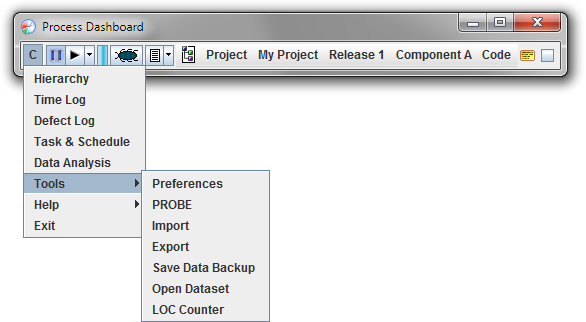
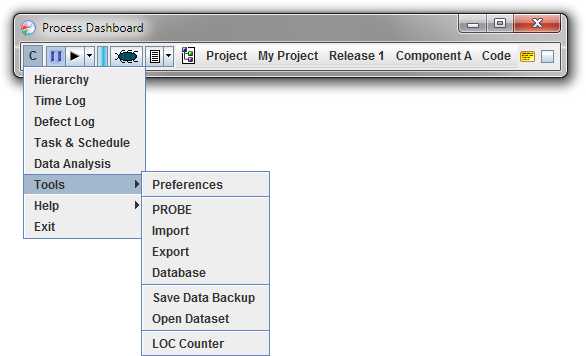
Help updates for Process Dashboard 2.0
git-svn-id: https://svn.code.sf.net/p/processdash/code/trunk@4363 560cad82-bde2-470f-af40-e4e1f8d6548a

Changed region(s): [[0.0, 0.0311, 0.9829, 0.9938]]

diff --git a/processdash/Templates/help/Topics/Overview/ChangeLog.html b/processdash/Templates/help/Topics/Overview/ChangeLog.html
@@ -7,6 +7,61 @@
 
 <H1>Change History</H1>
 
+
+<h2>Features new in version 2.0</h2>
+
+<ul>
+
+<li>The Process Dashboard now includes a powerful new 
+<a href="../AdvancedTopics/Database.html">Data Warehouse</a> component.  This
+component stores team project data in a relational database, making it
+possible for external analysis and reporting tools to access project data via
+SQL queries.</li>
+
+<li>The various reports, charts, and calculations in the Team Dashboard have
+been rewritten to take advantage of the Data Warehouse component.  As a
+result, Team Dashboard reports are displayed 100 to 1000 times faster than
+before.  Team Dashboard memory usage has also decreased significantly.
+Together, these improvements introduce a dramatic change in the scalability of
+the Team Dashboard for large and long-running project teams.</li>
+
+<li>For over a decade, the Team Dashboard has reused the same graphical user
+interface as the "personal" Dashboard.  With this release, the Team Dashboard
+now displays a redesigned user interface that focuses on the needs of coaches,
+team leaders, team role managers, and other users of consolidated team data.
+The new interface provides quick access to team tools and reports, improving
+productivity of existing teams, and reducing the learning curve for teams that
+are new to the Process Dashboard.</li>
+
+<li>Historically, some teams have observed extremely long startup times for
+the Team Dashboard - especially when opening the data over a VPN, WAN, or
+other slow network.  This version introduces a change to the storage strategy
+for team projects, enabling significantly faster startup times for the Team
+Dashboard.</li>
+
+<li>When the Team Dashboard and Process Dashboard shut down, a task runs to
+export data for various team projects.  Historically, as more team projects
+are added to a particular dashboard, this export step takes longer and longer.
+In this version, the export task has been streamlined significantly, allowing
+the dashboard to shut down much faster.</li>
+
+<li>Significant improvements have been made to the efficiency of the earned
+value calculation logic, enabling earned value reports to display much faster
+than before.</li>
+
+<li>The Defect Log Editor now includes an option to import defects from the
+Review Board code review tool.</li>
+
+<li>A new REST API has been provided that makes it possible for external tools
+(running on the same computer as the personal Process Dashboard) to add
+entries to the Size Inventory Form for a Team Project.</li>
+
+<li>The splash screen appears more quickly after clicking an icon to launch
+the Process Dashboard.</li>
+
+</ul>
+
+
 <h2>Features new in version 1.15</h2>
 
 <ul>

diff --git a/processdash/Templates/help/Topics/Overview/Licenses.html b/processdash/Templates/help/Topics/Overview/Licenses.html
@@ -30,8 +30,14 @@ software contributions from the following individuals:<ul>
 
 <p>This program also contains:<ul>
 
-<li>Java software libraries, &copy;&nbsp;1995-2009
+<li>Java software libraries, &copy;&nbsp;1995-2012
     <a href="apache.html">Apache Software Foundation</a></li>
+
+<li>Spring Framework libraries, &copy;&nbsp;2001-2012
+    <a href="apache.html">SpringSource</a>, a division of VMware, Inc.</li>
+
+<li>Hibernate ORM libraries, &copy;&nbsp;2001-2012
+    <a href="lgpl.html">Hibernate development team</a></li>
 
 <li>JFreeChart charting software &copy;&nbsp;2000-2003 
     <a href="lgpl.html">David Gilbert, Simba Management Limited</a></li>
@@ -72,6 +78,19 @@ software contributions from the following individuals:<ul>
 
 <!-- MD5 digest calculator -->
 &copy;&nbsp;1996&nbsp;<a href="lgpl.html">Santeri&nbsp;Paavolainen</a>;
+
+<!-- Ehcache -->
+&copy;&nbsp;2003-2006&nbsp;<a href="apache.html">Greg&nbsp;Luck</a>;
+
+<!-- DOM4J -->
+&copy;&nbsp;2001-2005&nbsp;<a href="License-DOM4J.html">MetaStuff,&nbsp;Ltd.</a>;
+
+<!-- ASM -->
+&copy;&nbsp;2012&nbsp;<a href="bsd.html">France&nbsp;T&eacute;l&eacute;com</a>;
+
+<!-- ANTLR -->
+&copy;&nbsp;2012&nbsp;<a href="bsd.html">Terence&nbsp;Parr and
+Sam&nbsp;Harwell</a>;
 
 <!-- Base64 encoder (public domain) -->
 &copy;&nbsp;2004&nbsp;Robert&nbsp;Harder.
@@ -123,6 +142,14 @@ software contributions from the following individuals:<ul>
 reporting capabilities and relational database support.  These modules are
 &copy;&nbsp;2008-2013 <a href="License-Extras.html">Tuma Solutions,
 LLC</a>.</p>
+
+<p>This software contains unmodified binary redistributions for H2 database
+engine (http://www.h2database.com/), which is dual licensed and available
+under a modified version of the MPL 1.1 (Mozilla Public License) or under the
+(unmodified) EPL 1.0 (Eclipse Public License).  An original copy of the
+license agreement can be found at:
+http://www.h2database.com/html/license.html</p>
+
 
 <h2>SEI/CMU Materials</h2>
 

diff --git a/processdash/Templates/help/Topics/Overview/License-DOM4J.html b/processdash/Templates/help/Topics/Overview/License-DOM4J.html
@@ -1,0 +1,44 @@
+<html>
+<body>
+
+<h1>DOM4J License</h1>
+
+<p>Redistribution and use of this software and associated documentation
+("Software"), with or without modification, are permitted provided that the
+following conditions are met:</p>
+
+<ul>
+
+<li>Redistributions of source code must retain copyright statements and
+notices.  Redistributions must also contain a copy of this document.</li>
+
+<li>Redistributions in binary form must reproduce the above copyright notice,
+this list of conditions and the following disclaimer in the documentation
+and/or other materials provided with the distribution.</li>
+
+<li>The name "DOM4J" must not be used to endorse or promote products derived
+from this Software without prior written permission of MetaStuff, Ltd.  For
+written permission, please contact dom4j-info@metastuff.com.</li>
+
+<li>Products derived from this Software may not be called "DOM4J" nor may
+"DOM4J" appear in their names without prior written permission of MetaStuff,
+Ltd. DOM4J is a registered trademark of MetaStuff, Ltd.</li>
+
+<li>Due credit should be given to the DOM4J Project -
+http://www.dom4j.org</li>
+
+</ul>
+
+<p>THIS SOFTWARE IS PROVIDED BY METASTUFF, LTD. AND CONTRIBUTORS ``AS IS'' AND
+ANY EXPRESSED OR IMPLIED WARRANTIES, INCLUDING, BUT NOT LIMITED TO, THE
+IMPLIED WARRANTIES OF MERCHANTABILITY AND FITNESS FOR A PARTICULAR PURPOSE ARE
+DISCLAIMED.  IN NO EVENT SHALL METASTUFF, LTD. OR ITS CONTRIBUTORS BE LIABLE
+FOR ANY DIRECT, INDIRECT, INCIDENTAL, SPECIAL, EXEMPLARY, OR CONSEQUENTIAL
+DAMAGES (INCLUDING, BUT NOT LIMITED TO, PROCUREMENT OF SUBSTITUTE GOODS OR
+SERVICES; LOSS OF USE, DATA, OR PROFITS; OR BUSINESS INTERRUPTION) HOWEVER
+CAUSED AND ON ANY THEORY OF LIABILITY, WHETHER IN CONTRACT, STRICT LIABILITY,
+OR TORT (INCLUDING NEGLIGENCE OR OTHERWISE) ARISING IN ANY WAY OUT OF THE USE
+OF THIS SOFTWARE, EVEN IF ADVISED OF THE POSSIBILITY OF SUCH DAMAGE.</p>
+
+</body>
+</html>

diff --git a/processdash/Templates/help/Topics/Troubleshooting/FAQ.html b/processdash/Templates/help/Topics/Troubleshooting/FAQ.html
@@ -18,6 +18,9 @@
  <LI><a href="#ChooseJVM">I have several versions of the Java Runtime Environment on my computer. How
   can I tell the dashboard which one to use?</a></li>
 
+ <LI><a href="#hybridMode">Our Team Dashboard is displaying the "toolbar" user
+ interface designed for personal data collection. How can I fix this?</a></li>
+
 </ul>
 
 <h2>Online forms</h2>
@@ -118,6 +121,22 @@ Environment on my computer. How can I tell the dashboard which one to use?</b>
     if it is slightly different on your computer.)
      </li>
 </ol>
+
+<P><hr><A NAME="hybridMode"></A><b>Our Team Dashboard is displaying the
+ "toolbar" user interface designed for personal data collection. How can I fix
+ this?</b>
+
+<p>In most cases, when you create a team dashboard or personal dashboard, it
+will automatically be configured with a flag indicating the dataset type.
+However, if you have an older Team Dashboard that contains a mixture of team
+projects and accidentally created personal projects, the dashboard may not be
+able to infer the correct dataset type, and it may display the "toolbar" user
+interface that is designed to help individuals collect data.  If this occurs,
+you can fix the problem by choosing &quot;C 
+<img src="../../Images/rarrow.png"> Tools <img src="../../Images/rarrow.png">
+Preferences <img src="../../Images/rarrow.png"> Advanced&quot; and setting the
+"datasetMode" parameter to "team".</p>
+
 
 <P><hr><A NAME="TwoForms"></A><b>If I have a dashboard script or form open,
 and I click the script button to open another form, the new form appears in

diff --git a/processdash/Templates/help/TOC.html b/processdash/Templates/help/TOC.html
@@ -97,6 +97,9 @@ A  { color: black; text-decoration: none }
 <td nowrap="true"><img align="absmiddle" src="Images/spacer.gif" height="1" width="40"><img align="absmiddle" src="Images/page.gif" width="17" height="20"><img align="absmiddle" src="Images/spacer.gif" width="4" height="1"><a href="Topics/Overview/License-SunBerkeley.html">Sun Microsystems</a></td>
 </tr>
 <tr>
+<td nowrap="true"><img align="absmiddle" src="Images/spacer.gif" height="1" width="40"><img align="absmiddle" src="Images/page.gif" width="17" height="20"><img align="absmiddle" src="Images/spacer.gif" width="4" height="1"><a href="Topics/Overview/License-DOM4J.html">DOM4J License</a></td>
+</tr>
+<tr>
 <td nowrap="true"><img align="absmiddle" src="Images/spacer.gif" height="1" width="40"><img align="absmiddle" src="Images/page.gif" width="17" height="20"><img align="absmiddle" src="Images/spacer.gif" width="4" height="1"><a href="Topics/Overview/License-Colt.html">Colt License</a></td>
 </tr>
 <tr>
@@ -279,6 +282,7 @@ A  { color: black; text-decoration: none }
     [ "Apache", "Topics/Overview/apache.html" ],
     [ "MIT", "Topics/Overview/License-MIT.html" ],
     [ "BSD", "Topics/Overview/bsd.html" ],
+    [ "DOM4J", "Topics/Overview/License-DOM4J.html" ],
     [ "SunBerkeley", "Topics/Overview/License-SunBerkeley.html" ],
     [ "Colt", "Topics/Overview/License-Colt.html" ],
     [ "Overlib", "Topics/Overview/License-Overlib.html" ],

diff --git a/processdash/Templates/help/Topics/Execution/ConfigureMenu.html b/processdash/Templates/help/Topics/Execution/ConfigureMenu.html
@@ -41,10 +41,12 @@ to give you complete control of your PSP data.</P>
    <li><a href="../Planning/UsingProbeTool.html">PROBE</a> provides access to
      a tool to help with the <b>PRO</b>xy <b>B</b>ased <b>E</B>stimation 
      method.</li>
-   <li><a href="../PostmortemAnalysis/ExportingData.html">Export</a> and
-     <a href="../PostmortemAnalysis/ExportingData.html">Import</a> provide
+   <li><a href="../PostmortemAnalysis/ExportingData.html">Import</a> and
+     <a href="../PostmortemAnalysis/ExportingData.html">Export</a> provide
      access to tools that allow data to be transferred between dashboards
-     in a compressed structured file format.</LI>
+     in a compressed structured file format.</li>
+   <li><a href="../AdvancedTopics/Database.html">Database</a> provides
+     SQL access to the a relational database of team project data</li>
    <li><a href="../AdvancedTopics/BackupData.html">Save Data Backup</a>
      allows you to save a snapshot of your data for archival or
      communication purposes.</li>

diff --git a/processdash/Templates/help/Topics/AdvancedTopics/ConfigurationFile.html b/processdash/Templates/help/Topics/AdvancedTopics/ConfigurationFile.html
@@ -41,6 +41,19 @@ changes to take effect.</p>
  </li>
  <br>
 
+ <li><a name="datasetMode"></a><strong>datasetMode</strong><br>
+   Flag indicating whether this is a team or personal dataset.  Personal
+   datasets display the user inteface with a thin toolbar and allow the
+   logging of time, size, defects, and other metrics.  Team datasets show a
+   larger user inteface allowing the creation of team projects, which
+   calculate roll-ups of data from multiple individuals.<br>
+   <table border=0>
+    <tr valign="top"><td NOWRAP>Format:</td><td><i>team</i> or <i>personal</i></td></tr>
+    <tr valign="top"><td NOWRAP>Example:</td><td>datasetMode = team</td></tr>
+   </table>
+ </li>
+ <br>
+
  <li><a name="dateFormat"></a><strong>dateFormat</strong><br>
    Display format for date fields.<br>
    <table border=0>

diff --git a/processdash/Templates/help/Topics/AdvancedTopics/Database.html b/processdash/Templates/help/Topics/AdvancedTopics/Database.html
@@ -8,10 +8,13 @@
 <h1>Database Support in the Process Dashboard</h1>
 
 <p>From its inception, the Process Dashboard has used a specialized data
-repository to manage project metrics. Beginning in version 1.15.2, selected
-metrics can also be accessed in a relational database via SQL.</p>
+repository to manage project metrics. Beginning in version 2.0, selected
+metrics can also be accessed in a relational database via SQL.  To enable
+access to this relational database, choose the "Database" option from the
+"Tools" menu.</p>
 
-<p>For documentation on this functionality, please visit:<br>
+<p>For in-depth documentation on this functionality, including the contents of
+the database schema, please visit:<br>
 &nbsp;&nbsp;&nbsp;&nbsp;&nbsp;<u>http://www.processdash.com/dbhelp</u></p>
 
 </body>

diff --git a/processdash/Templates/help/Topics/Overview/QuickOverview.html b/processdash/Templates/help/Topics/Overview/QuickOverview.html
@@ -41,6 +41,9 @@ University.</p>
 
 <h2>A quick look at the tool</h2>
 
+<p>The personal Process Dashboard displays a streamlined user interface that
+helps individuals to edit plans, collect metrics, and analyze their data.</p>
+
 <p class="figure"><img src="../../Images/DashboardOverview.png"></p>
 
 <P>The Process Dashboard attempts to keep itself as small as possible to save 
